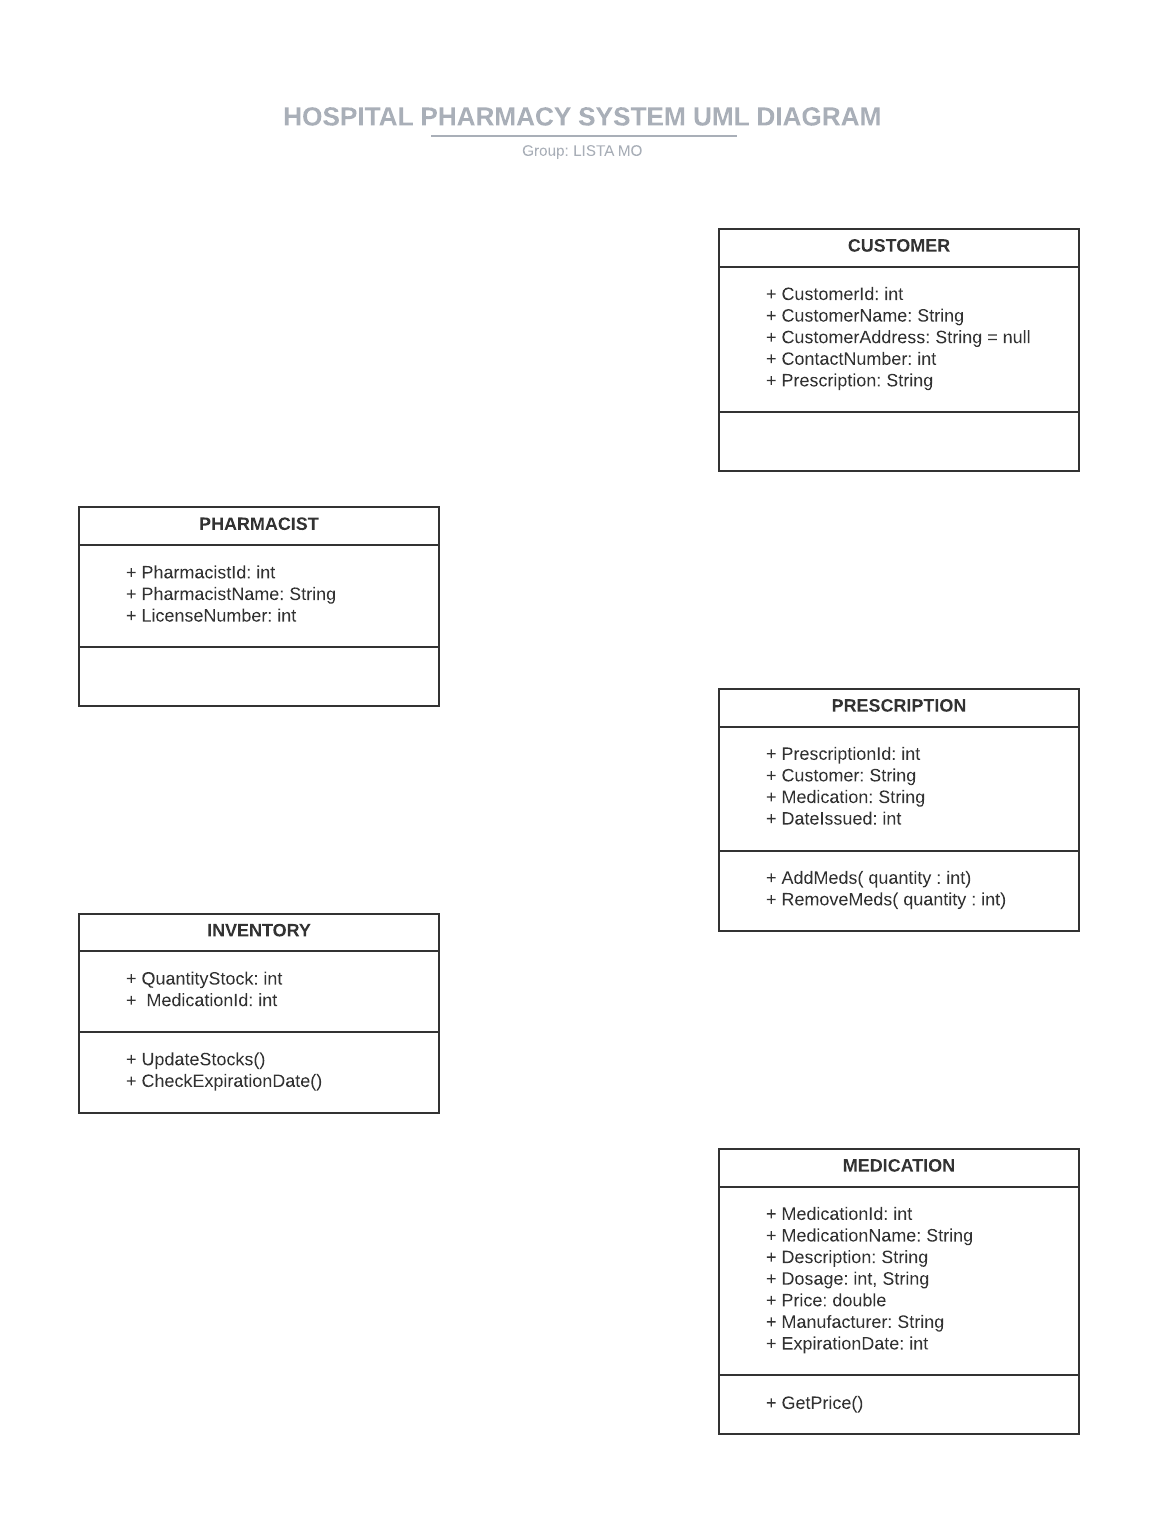
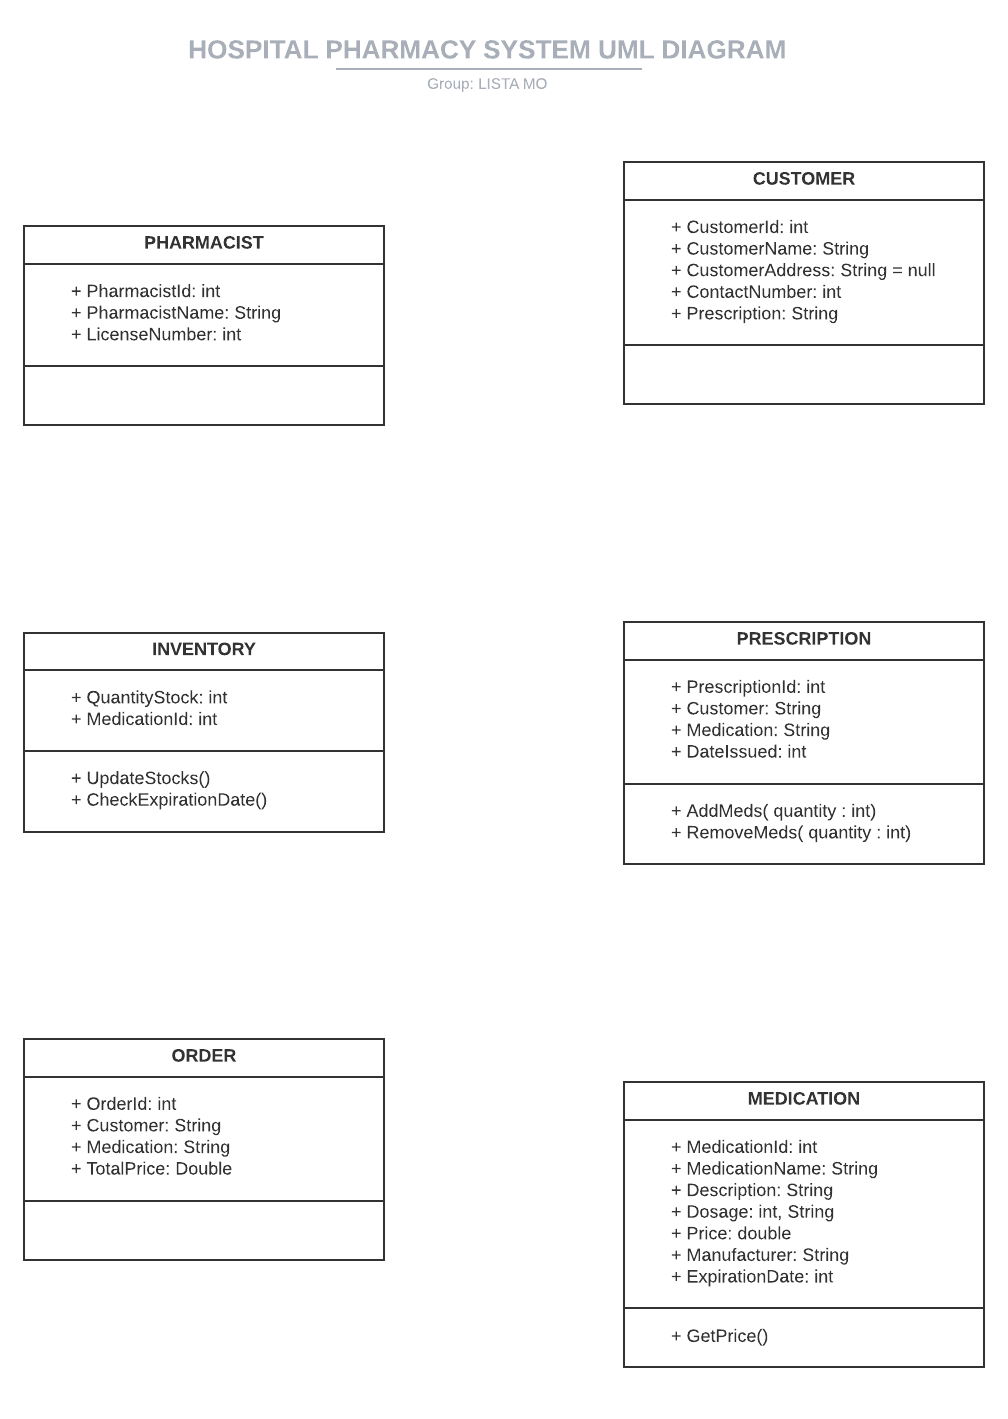
Patrick (#2)
* New UML diagram

* Update Class: Pharmacist & Inventory

* update

diff --git a/root/PharmacySystem/main.py b/root/PharmacySystem/main.py
@@ -9,13 +9,18 @@ class Customer:
 #Create class for the remaining (Pharmacist, Medication, Inventory, Prescription, & Order)
 
 class Pharmacist:
-
+    def __init__(self, PharmacistId, PharmacistName, LicenseNumber):
+        self.PharmacistId = PharmacistId
+        self.PharmacistName = PharmacistName
+        self.LicenseNumber = LicenseNumber
 
 class Medication:
 
 
 class Inventory:
-
+    def __init__(self,QuantityStock, MedicationId):
+        self.QuantityStock = QuantityStock
+        self.MedicationId = MedicationId
 
 class Prescription:
 
